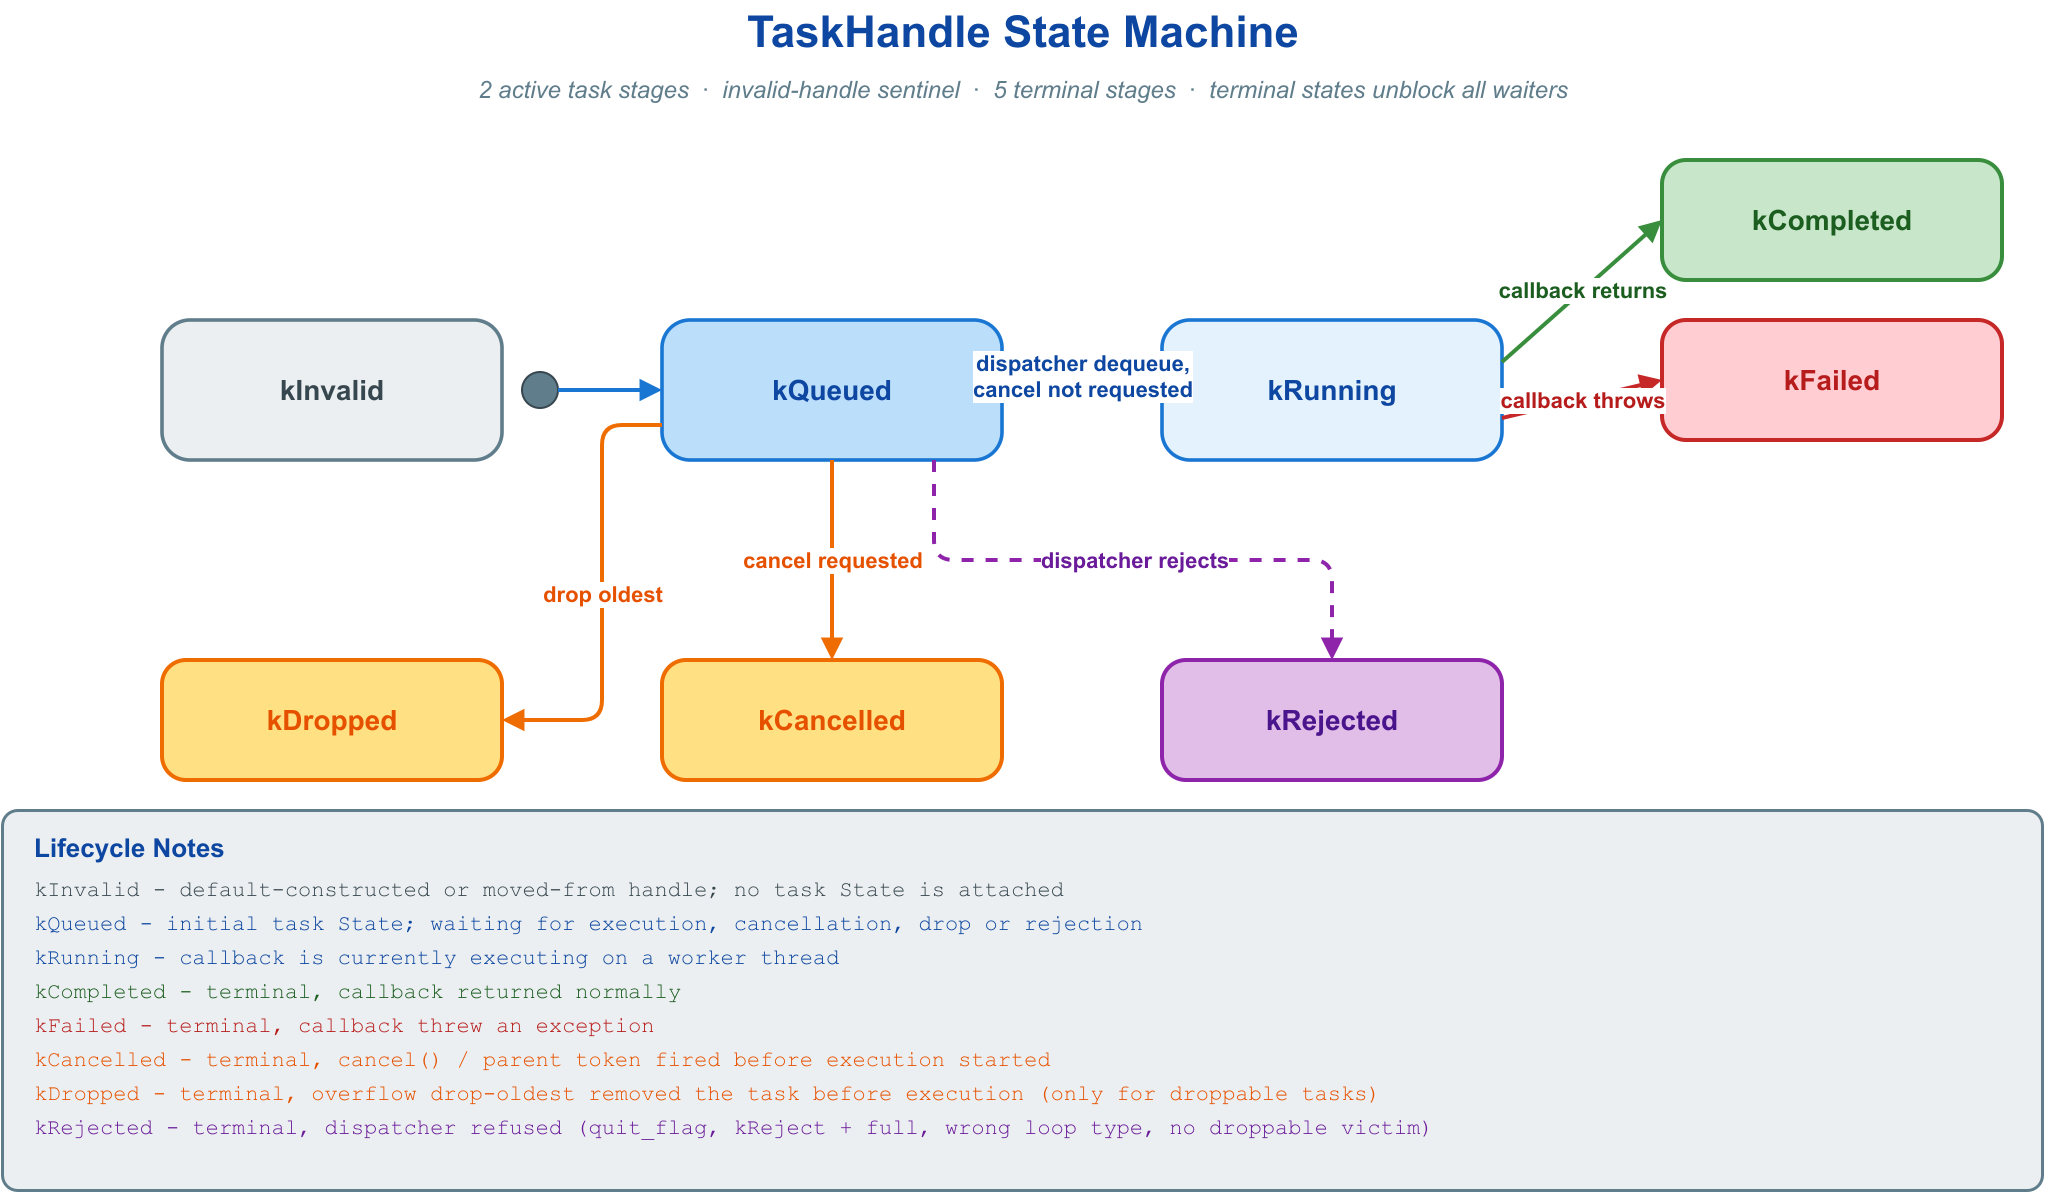
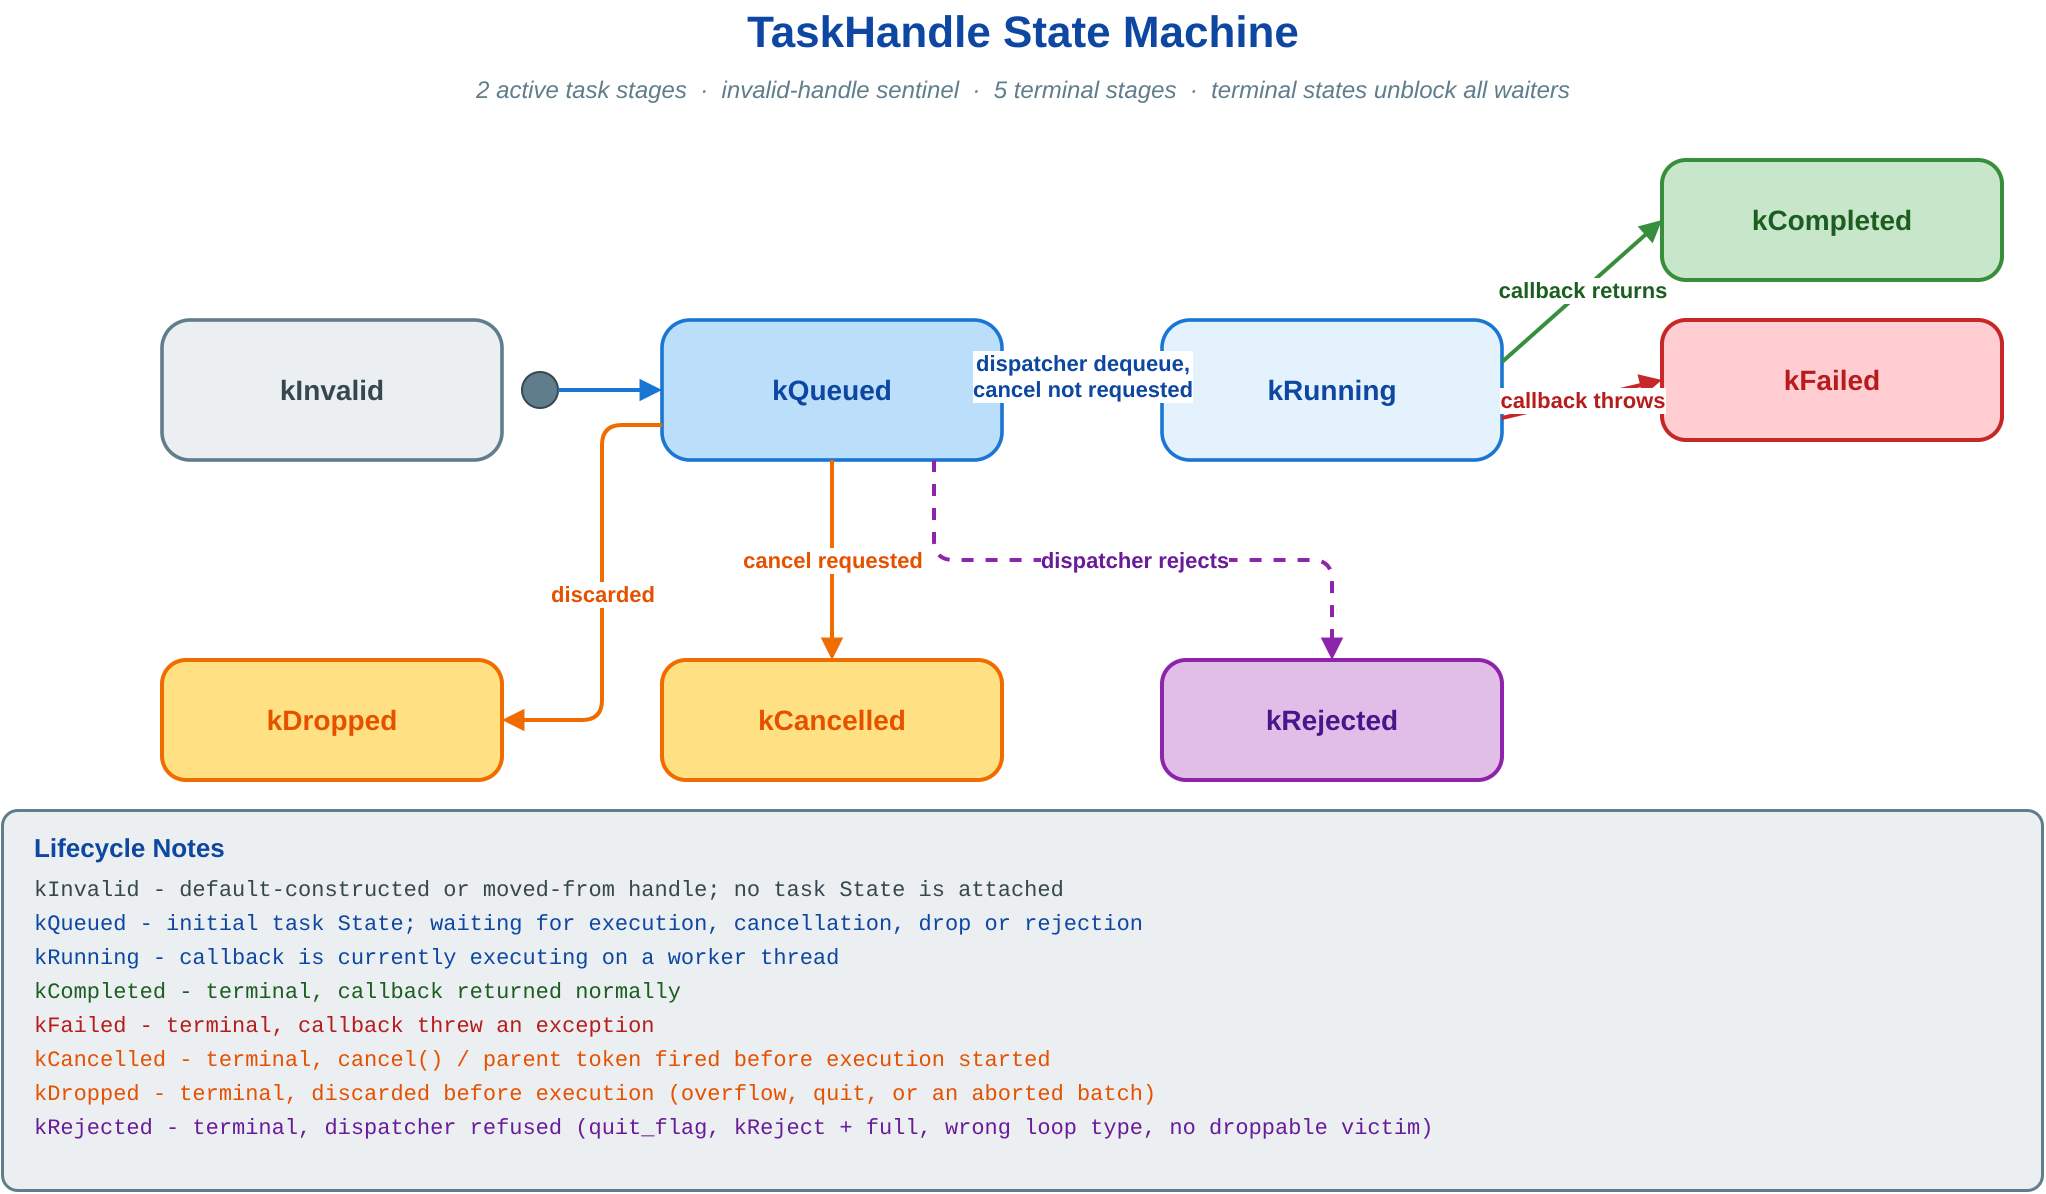
fix(base): release staged tasks when the message loop exits

diff --git a/src/base/message_loop.cc b/src/base/message_loop.cc
@@ -153,6 +153,8 @@ struct MessageLoop::Impl final {  // NOLINT(clang-analyzer-optin.performance.Pad
   std::optional<LockfreeQueue> lockfree_queue;
   std::optional<PriorityQueue> priority_droppable_queue;
   std::optional<PriorityQueue> priority_protected_queue;
+  std::optional<PriorityQueue> priority_droppable_staging_queue;
+  std::optional<PriorityQueue> priority_protected_staging_queue;
 
   MessageLoop::Callback begin_callback;
   MessageLoop::Callback end_callback;
@@ -471,7 +473,7 @@ bool MessageLoop::spin_once(bool block) {
   } else if (impl_->type == kLockfreeType) {
     return process_lockfree_task(block);  // LCOV_EXCL_LINE GCOVR_EXCL_LINE
   } else if (impl_->type == kPriorityType) {
-    return process_priority_task(block);
+    return process_priority_task(block, false);
   } else {
     return false;  // LCOV_EXCL_LINE GCOVR_EXCL_LINE
   }
@@ -1351,6 +1353,25 @@ void MessageLoop::do_consume() {
 
   lock.unlock();
 
+  struct RunGuard final {
+    Impl& impl;
+    bool batches_drained{false};
+
+    ~RunGuard() {
+      if VUNLIKELY (!batches_drained) {
+        impl.normal_staging_queue.reset();
+        impl.priority_droppable_staging_queue.reset();
+        impl.priority_protected_staging_queue.reset();
+      }
+
+      std::lock_guard state_lock(impl.mtx);
+      impl.thread_id.store(std::thread::id(), std::memory_order_release);
+      impl.is_running.store(false, std::memory_order_release);
+      impl.is_busy.store(false, std::memory_order_release);
+      impl.cv.notify_all();
+    }
+  } run_guard{*impl_};
+
   on_begin();
 
   if (impl_->type == kNormalType) {
@@ -1368,20 +1389,22 @@ void MessageLoop::do_consume() {
     while (process_lockfree_task(true)) {
     }
   } else if (impl_->type == kPriorityType) {
-    while (process_priority_task(true)) {
+    if (!impl_->priority_droppable_staging_queue.has_value()) {
+#ifdef VLINK_ENABLE_BASE_MEMORY_RESOURCE
+      impl_->priority_droppable_staging_queue.emplace(&MemoryResource::global_instance());
+      impl_->priority_protected_staging_queue.emplace(&MemoryResource::global_instance());
+#else
+      impl_->priority_droppable_staging_queue.emplace();
+      impl_->priority_protected_staging_queue.emplace();
+#endif
+    }
+
+    while (process_priority_task(true, true)) {
     }
   }
 
+  run_guard.batches_drained = true;
   on_end();
-
-  lock.lock();
-
-  impl_->thread_id.store(std::thread::id(), std::memory_order_release);
-  impl_->is_running.store(false, std::memory_order_release);
-  impl_->is_busy.store(false, std::memory_order_release);
-  impl_->cv.notify_all();
-
-  lock.unlock();
 }
 
 bool MessageLoop::process_normal_task(bool block, bool reuse_queue) {
@@ -1536,7 +1559,7 @@ bool MessageLoop::process_lockfree_task(bool block) {
   return true;
 }
 
-bool MessageLoop::process_priority_task(bool block) {
+bool MessageLoop::process_priority_task(bool block, bool reuse_queue) {
   impl_->is_busy.store(true, std::memory_order_release);
 
   [[maybe_unused]] bool is_timeout = true;
@@ -1544,13 +1567,22 @@ bool MessageLoop::process_priority_task(bool block) {
 
   std::vector<Callback> dropped_tasks;
 
+  std::optional<Impl::PriorityQueue> local_queue;
+  std::optional<Impl::PriorityQueue> local_protected_queue;
+
+  if (!reuse_queue) {
 #ifdef VLINK_ENABLE_BASE_MEMORY_RESOURCE
-  Impl::PriorityQueue temp_queue(&MemoryResource::global_instance());
-  Impl::PriorityQueue temp_protected_queue(&MemoryResource::global_instance());
+    local_queue.emplace(&MemoryResource::global_instance());
+    local_protected_queue.emplace(&MemoryResource::global_instance());
 #else
-  Impl::PriorityQueue temp_queue;
-  Impl::PriorityQueue temp_protected_queue;
+    local_queue.emplace();
+    local_protected_queue.emplace();
 #endif
+  }
+
+  auto& temp_queue = reuse_queue ? impl_->priority_droppable_staging_queue.value() : local_queue.value();
+  auto& temp_protected_queue =
+      reuse_queue ? impl_->priority_protected_staging_queue.value() : local_protected_queue.value();
 
   std::unique_lock lock(impl_->mtx);
 
@@ -1590,6 +1622,8 @@ bool MessageLoop::process_priority_task(bool block) {
   if VUNLIKELY (impl_->quit_flag.load(std::memory_order_acquire)) {
     lock.unlock();
     drop_pending_tasks();
+    temp_queue.container().clear();
+    temp_protected_queue.container().clear();
     return false;
   }
 

diff --git a/test/base/message_loop_test.cc b/test/base/message_loop_test.cc
@@ -32,6 +32,7 @@
 #include <memory>
 #include <mutex>
 #include <shared_mutex>
+#include <stdexcept>
 #include <string>
 #include <thread>
 #include <utility>
@@ -1463,8 +1464,41 @@ TEST_SUITE("base-MessageLoop") {
     CHECK(done.load());
   }
 
+  TEST_CASE("synchronous run drops the remaining batch and can restart after an exception") {
+    auto type = MessageLoop::kNormalType;
+    SUBCASE("normal queue") {}
+    SUBCASE("priority queue") { type = MessageLoop::kPriorityType; }
+
+    MessageLoop loop(type);
+    REQUIRE(loop.post_task([] { throw std::runtime_error("task failed"); }));
+    auto droppable = loop.post_task_handle([] {});
+    PostTaskOptions options;
+    options.drop_policy = TaskDropPolicy::kProtected;
+    auto protected_task = loop.post_task_handle([] {}, options);
+
+    CHECK_THROWS_AS(loop.run(), std::runtime_error);
+    REQUIRE_FALSE(loop.is_running());
+    CHECK_FALSE(loop.is_busy());
+    CHECK_FALSE(loop.is_in_same_thread());
+    CHECK_EQ(droppable.state(), TaskExecutionState::kDropped);
+    CHECK_EQ(protected_task.state(), TaskExecutionState::kDropped);
+
+    loop.register_idle_handler([] { throw std::runtime_error("idle failed"); });
+    CHECK_THROWS_AS(loop.run(), std::runtime_error);
+    REQUIRE_FALSE(loop.is_running());
+    CHECK_FALSE(loop.is_busy());
+
+    loop.register_idle_handler(nullptr);
+    REQUIRE(loop.post_task([&loop] { loop.quit(); }));
+    CHECK(loop.run());
+  }
+
   TEST_CASE("quit force=true drops remaining queued tasks") {
-    MessageLoop loop;
+    auto type = MessageLoop::kNormalType;
+    SUBCASE("normal queue") {}
+    SUBCASE("priority queue") { type = MessageLoop::kPriorityType; }
+
+    MessageLoop loop(type);
     std::atomic<bool> gate{false};
     std::atomic<bool> first_started{false};
     std::atomic<int> exec_count{0};
@@ -1479,7 +1513,9 @@ TEST_SUITE("base-MessageLoop") {
     std::vector<TaskHandle> handles;
 
     for (int i = 0; i < 5; ++i) {
-      handles.emplace_back(loop.post_task_handle([&exec_count] { exec_count.fetch_add(1); }));
+      PostTaskOptions options;
+      options.drop_policy = i == 0 ? TaskDropPolicy::kProtected : TaskDropPolicy::kDroppable;
+      handles.emplace_back(loop.post_task_handle([&exec_count] { exec_count.fetch_add(1); }, options));
     }
 
     REQUIRE(loop.async_run());

diff --git a/include/vlink/base/task_handle.h b/include/vlink/base/task_handle.h
@@ -112,7 +112,7 @@ enum class TaskExecutionState : uint8_t {
   kRunning,      ///< Non-terminal: task callback is currently executing.
   kCompleted,    ///< Terminal: callback returned normally.
   kCancelled,    ///< Terminal: task was cancelled before its callback executed.
-  kDropped,      ///< Terminal: task was removed from a bounded queue before execution.
+  kDropped,      ///< Terminal: task was discarded before execution.
   kRejected,     ///< Terminal: dispatcher refused the submission (quitting / queue full).
   kFailed,       ///< Terminal: task callback raised an exception.
 };
@@ -141,8 +141,7 @@ enum class TaskOverflowPolicy : uint8_t {
  */
 enum class TaskDropPolicy : uint8_t {
   kDroppable = 0,  ///< The task is a valid drop candidate.
-  kProtected,      ///< The task must not be dropped after admission.  (Lock-free dispatchers do not honour this; see
-                   ///< @c MessageLoop::post_task documentation.)
+  kProtected,      ///< Protects the task from overflow eviction in normal and priority queues.
 };
 
 /**

diff --git a/include/vlink/base/message_loop.h b/include/vlink/base/message_loop.h
@@ -658,7 +658,7 @@ class VLINK_EXPORT MessageLoop {
 
   bool process_lockfree_task(bool block);
 
-  bool process_priority_task(bool block);
+  bool process_priority_task(bool block, bool reuse_queue);
 
   bool process_timer_task(int64_t& next_sleep_time, std::vector<Callback>& dropped_tasks);
 

diff --git a/doc/08-base-library.md b/doc/08-base-library.md
@@ -290,6 +290,8 @@ vlink::LargeFunction<void()> jumbo = [arr = std::array<int, 50>{}]() { use(arr);
 | `quit(force=false)` / `wait_for_quit()` | 请求退出 / 等待退出完成 |
 | `is_in_same_thread()` | 判断当前是否在 loop 线程，防止 `invoke_task` 死锁 |
 
+`quit()` 会丢弃尚未取出的任务。普通和优先级循环会执行完当前批次，`quit(true)` 还会丢弃批次中尚未开始的任务，包括 `kProtected` 任务。同步 `run()` 中，若 `post_task` 的回调或空闲回调抛出未捕获的异常，循环丢弃当前批次的剩余任务并向调用方传播异常，随后可再次启动。
+
 ```cpp
 #include <vlink/base/message_loop.h>
 
@@ -369,7 +371,7 @@ sub.listen([&](const MyMsg& msg) {
 | `kPopStrategy` | 立即丢弃一个可丢弃任务并入队新任务 |
 | `kBlockStrategy` | 普通/优先级队列等待容量、策略切换或退出通知；无锁队列持续重试 |
 
-优先级循环用 `post_task_with_priority(cb, priority)`，priority 为必填参数（无默认值），取值自 `kLowestPriority` 至 `kHighestPriority`，常规任务约定使用优先级常量 `kNormalPriority`；其他队列类型忽略优先级。QoS 扩展中的 `Qos::Additions::Priority` 是独立于 MessageLoop 优先级的另一套配置，见 [QoS 配置](05-qos.md)。
+优先级循环用 `post_task_with_priority(cb, priority)`，priority 为必填参数（无默认值），取值自 `kLowestPriority` 至 `kHighestPriority`，常规任务约定使用优先级常量 `kNormalPriority`；普通和无锁循环调用此方法返回 `false`。QoS 扩展中的 `Qos::Additions::Priority` 是独立于 MessageLoop 优先级的另一套配置，见 [QoS 配置](05-qos.md)。
 
 单次提交显式指定 `TaskOverflowPolicy::kBlock` 时不响应 dispatcher 策略切换，仅在容量
 释放、任务取消或 loop 退出时结束等待。
@@ -595,7 +597,7 @@ if (!h2.wait(/*timeout_ms=*/500)) {
 }
 ```
 
-`TaskExecutionState` 转移：`kQueued` → `kRunning` → 终态之一（`kCompleted` 正常返回 / `kCancelled` 被取消 / `kDropped` 溢出丢弃 / `kRejected` 拒收 / `kFailed` 抛异常）。
+任务从 `kQueued` 进入 `kRunning`，正常返回时为 `kCompleted`，抛出异常时为 `kFailed`。任务也可被取消（`kCancelled`）、在执行前被丢弃（`kDropped`），或在提交时被拒绝（`kRejected`）。
 
 `PostTaskOptions` 字段：
 
